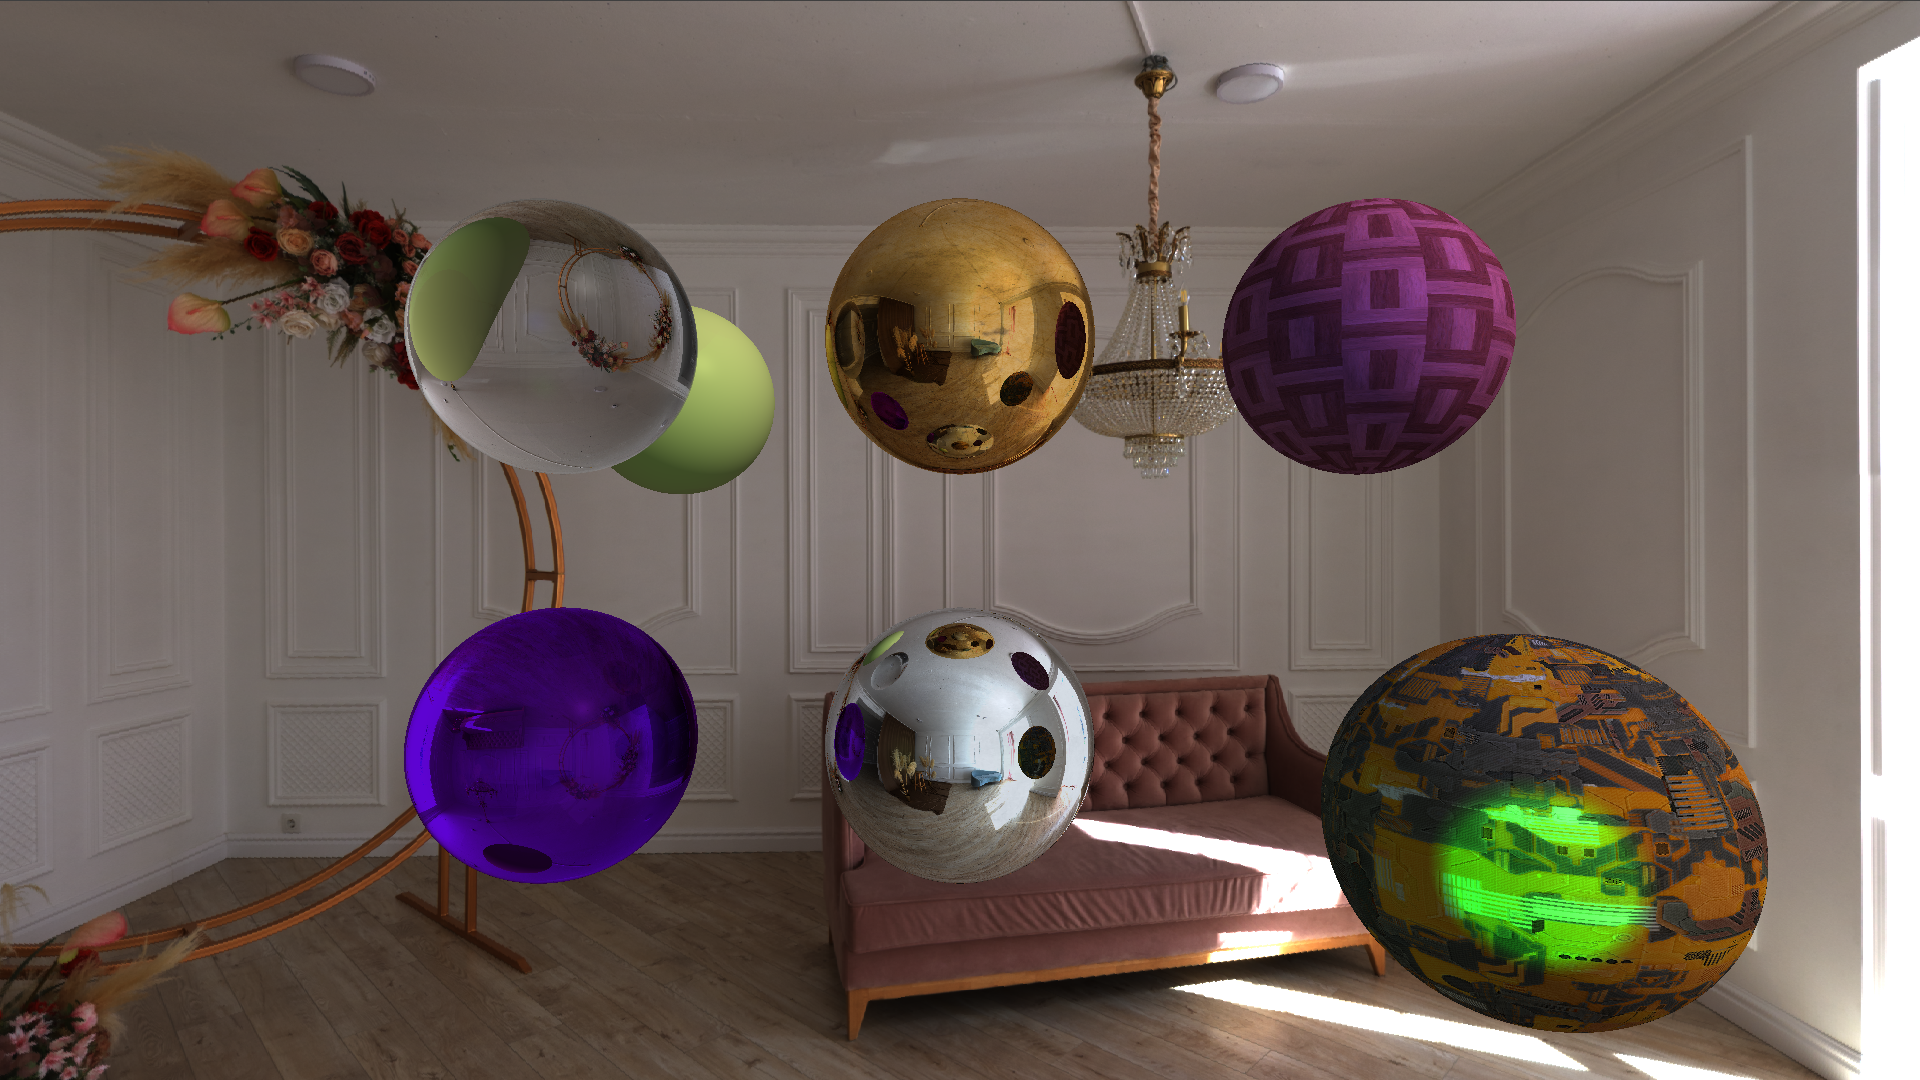
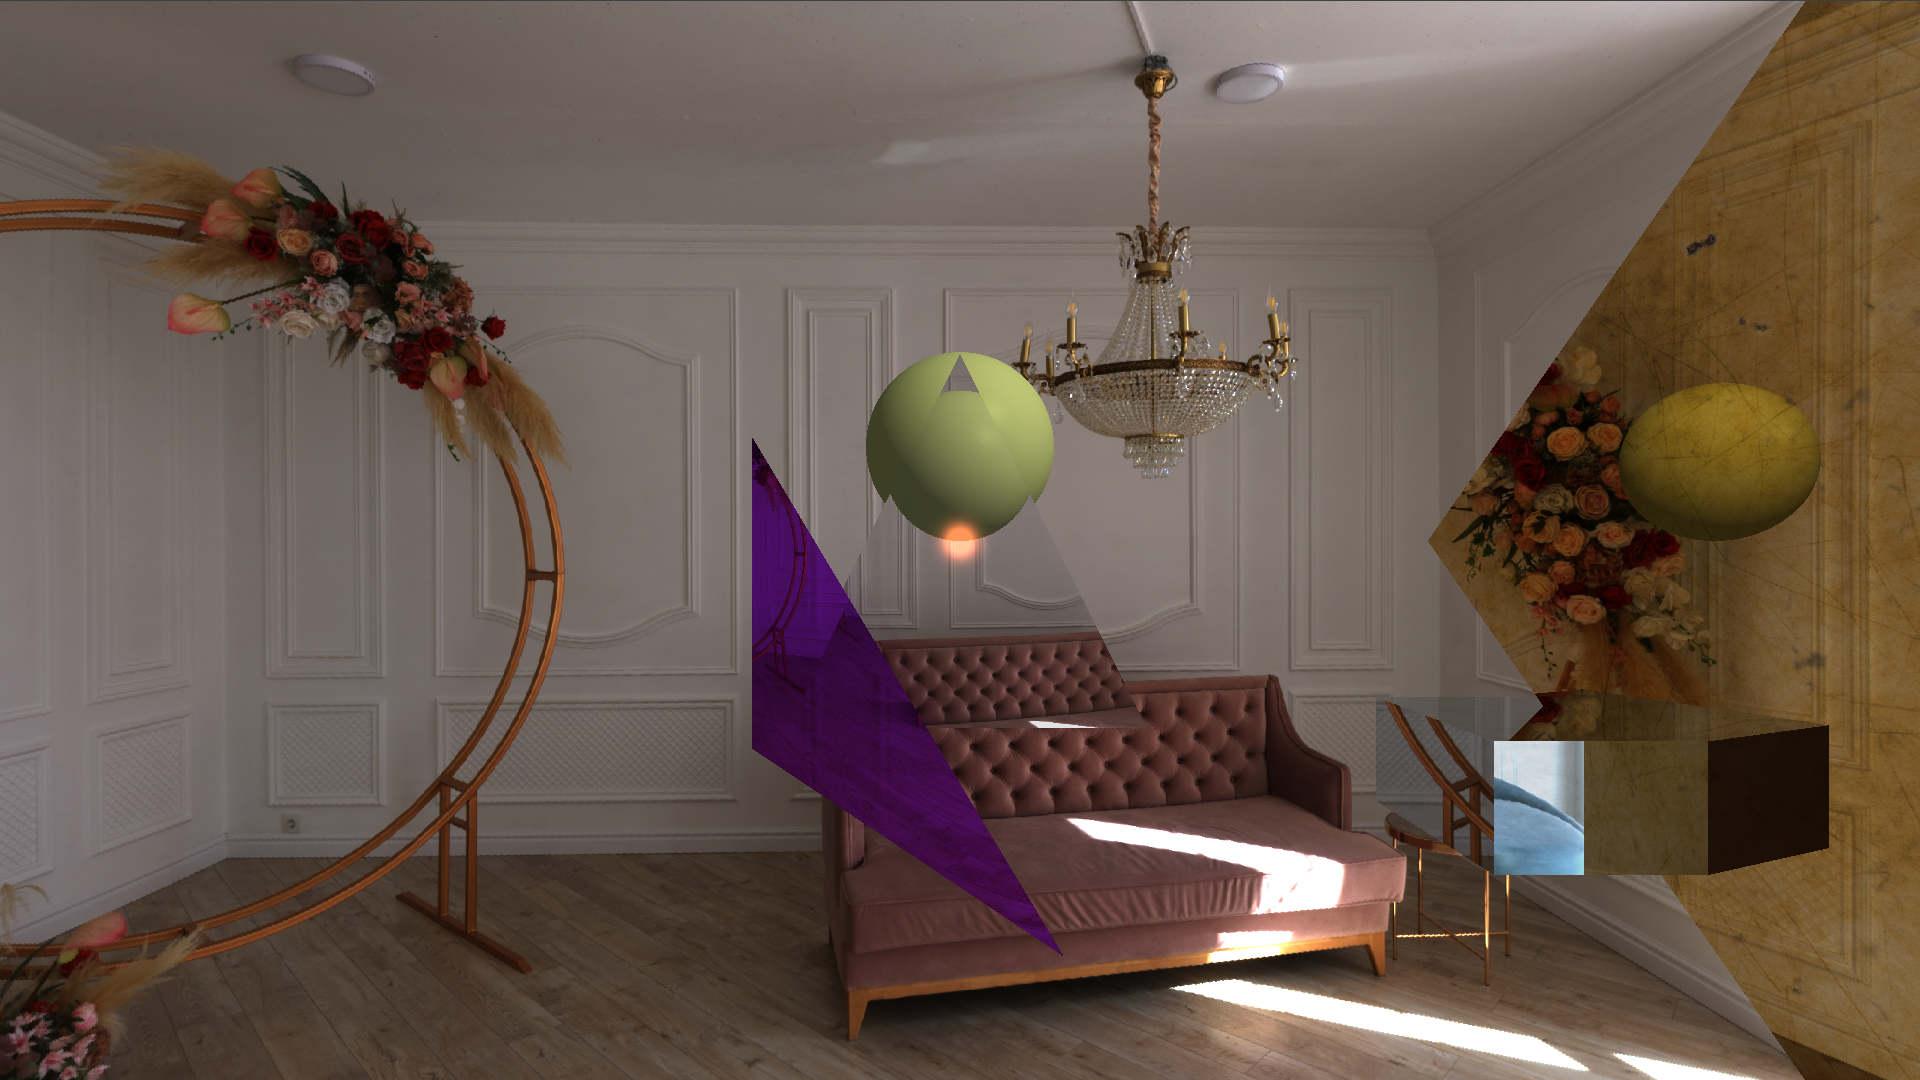
feat: final scene and timestamp on screenshot

diff --git a/raytracer.py b/raytracer.py
@@ -5,18 +5,17 @@ from figures import *
 from lights import *
 from materials import *
 import matplotlib
+import datetime
 
 
 def app():
     # Constants
-    file_path = './assets/scenes/222.txt'
+    file_path = './assets/scenes/triangles.txt'
     environment_map_path = './assets/textures/environment/brown_photostudio_05_8k.png'
     screen_shot_path = './assets/screenshots/'
 
-    # width = 250
-    # height = 140
-    width = 960
-    height = 540
+    width = 1920
+    height = 1080
 
     pygame.init()
 
@@ -144,11 +143,14 @@ def app():
                 once = True
             elif event.type == pygame.KEYDOWN and event.key == pygame.K_s and pygame.key.get_mods() & pygame.KMOD_CTRL:
                 pygame.display.set_caption("Saving...")
+                # Screenshot name unique using timestamp
+                timestamp = datetime.datetime.now().strftime("%Y%m%d_%H%M%S")
+                screen_shot_name = f'screenshot{ss}_{timestamp}.png'
                 pygame.image.save(screen, os.path.join(
-                    os.path.dirname(screen_shot_path), f'screenshot{ss}.png'))
+                    os.path.dirname(screen_shot_path), screen_shot_name))
                 ss += 1
                 print(
-                    f"Saved screenshot: {screen_shot_path}screenshot{ss}.png")
+                    f"Saved screenshot: {screen_shot_path}{screen_shot_name}")
                 pygame.display.set_caption(f"RT - {file_path}")
 
         if once:

diff --git a/README.md b/README.md
@@ -1,6 +1,8 @@
-# 🐍 py-tracer 🖼 RT2: Opaque, Reflective & Refractive Materials
+# 🐍 py-tracer 🖼 Lab 3: Ray-Intersect Algorithm, New Shapes
 
 Ray tracer using python and PyGame as main library.
+
+    ⚠ TRIANGLES were implemented as part of the lab! 
 
 ## 🚀 How to execute it?
 
@@ -14,7 +16,7 @@ That's all! 🎉 Wait unit it finish the render.
 
 ### ✅ Tips
 
-- ℹ You can modify the scene using the [./assets/scenes/222.txt](./assets/scenes/222.txt) or by creating a new scene file and defining it on the program.
+- ℹ You can modify the scene using the [./assets/scenes/triangles.txt](./assets/scenes/triangles.txt) or by creating a new scene file and defining it on the program.
 - 🧠 With **CTRL+R** you can update the scene based on the scene file.
 - 🧠 With **CTRL+S** you can take screenshots.
 
